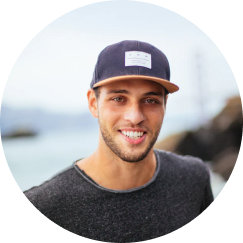
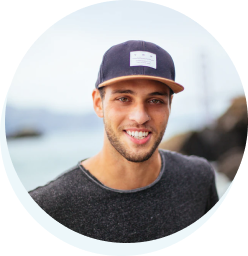
Restructured hero component to match figma design layout

Changed region(s): [[0.0, 0.144, 1.0, 1.0], [0.7778, 0.0864, 0.8066, 0.1152], [0.6914, 0.6914, 0.7202, 0.7202]]

diff --git a/components/Hero.jsx b/components/Hero.jsx
@@ -2,16 +2,18 @@ import Avatar from '../public/avatar.png'
 import Image from 'next/image'
 const Hero = () => {
   return (
-    <div className="container mx-[148px] mt-[140px] grid grid-cols-2">
-        <div>
-            <h1 className="mb-[40px] text-5xl font-bold">Hi, I am John,<br/>Creative Technologist</h1>
-            <p className="mb-[40px] text-base">Amet minim mollit non deserunt ullamco est sit aliqua dolor do amet sint. Velit officia consequat duis enim velit mollit. Exercitation veniam consequat sunt nostrud amet.</p>
-            <button className="bg-primary text-white px-[20px] py-[10px]">Download Resume</button>
+    <div className="container mx-auto w-[856px] h-screen mt-[228px]">
+        <div className='flex'>
+            <div className="">
+                <h1 className="mb-[40px] text-5xl font-bold">Hi, I am John,<br/>Creative Technologist</h1>
+                <p className="mb-[40px] text-base flex-shrink-1 w-[497px] h-[66px]">Amet minim mollit non deserunt ullamco est sit aliqua dolor do amet sint. Velit officia consequat duis enim velit mollit. Exercitation veniam consequat sunt nostrud amet.</p>
+                <button className="bg-primary text-white px-[20px] py-[10px]">Download Resume</button>
+            </div>
+            <div className='ml-[115px]'>
+                <Image src={Avatar} alt="profile picture" className=''/>
+            </div>
         </div>
-        <div className='flex justify-center'>
-            <Image src={Avatar} alt="profile picture" />
-        </div>
-        </div>
+    </div>
   )
 }
 

diff --git a/components/Navbar.jsx b/components/Navbar.jsx
@@ -3,7 +3,6 @@ import Link from "next/link";
 import { AiOutlineMenu, AiOulineClose } from 'react-icons/ai';
 
 const Navbar = () => (
-    <div>
         <div className="container mx-auto flex justify-end items-center py-8">
             <ul className="flex gap-[33px] text-[20px] font-medium">
                 <li>
@@ -20,7 +19,6 @@ const Navbar = () => (
                 </li>
             </ul>
         </div>
-    </div>
 );
 
 export default Navbar
